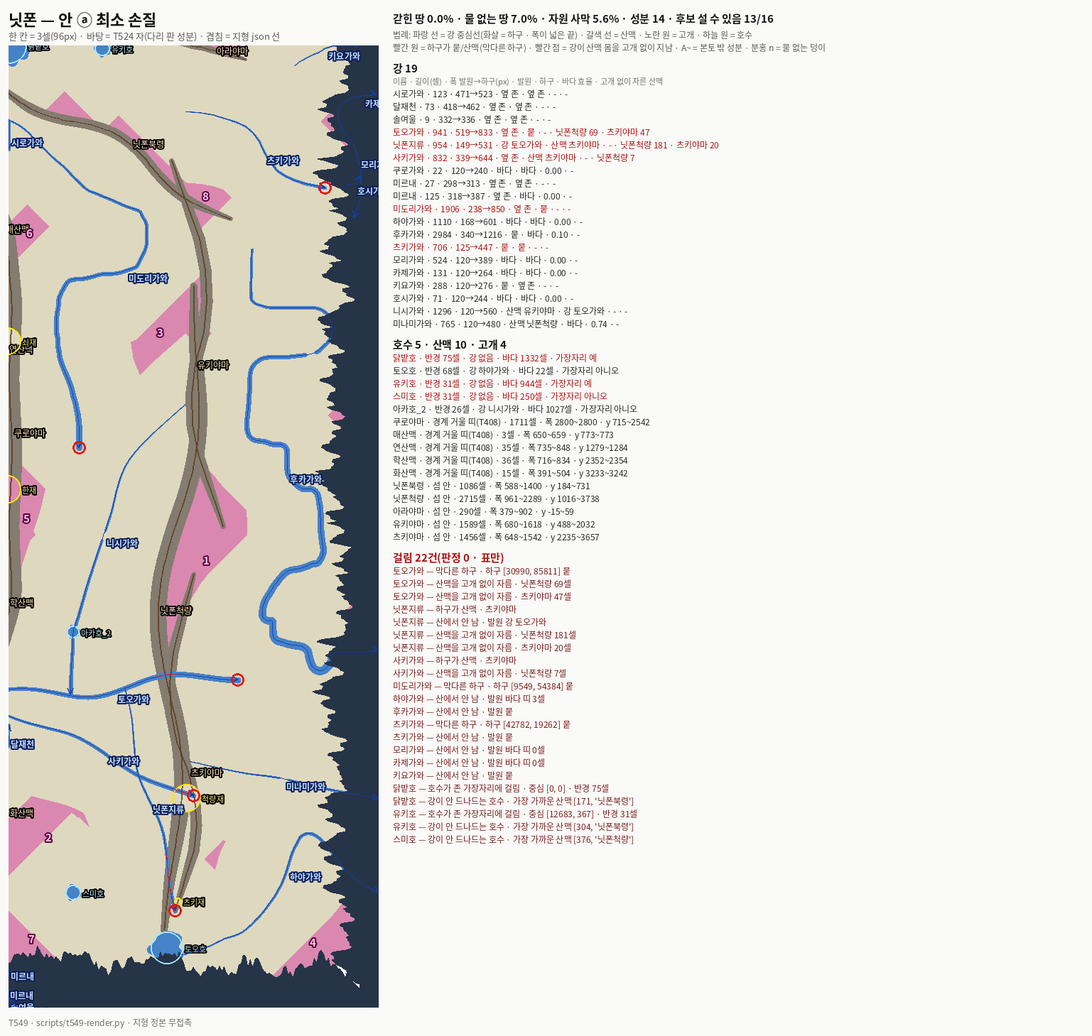
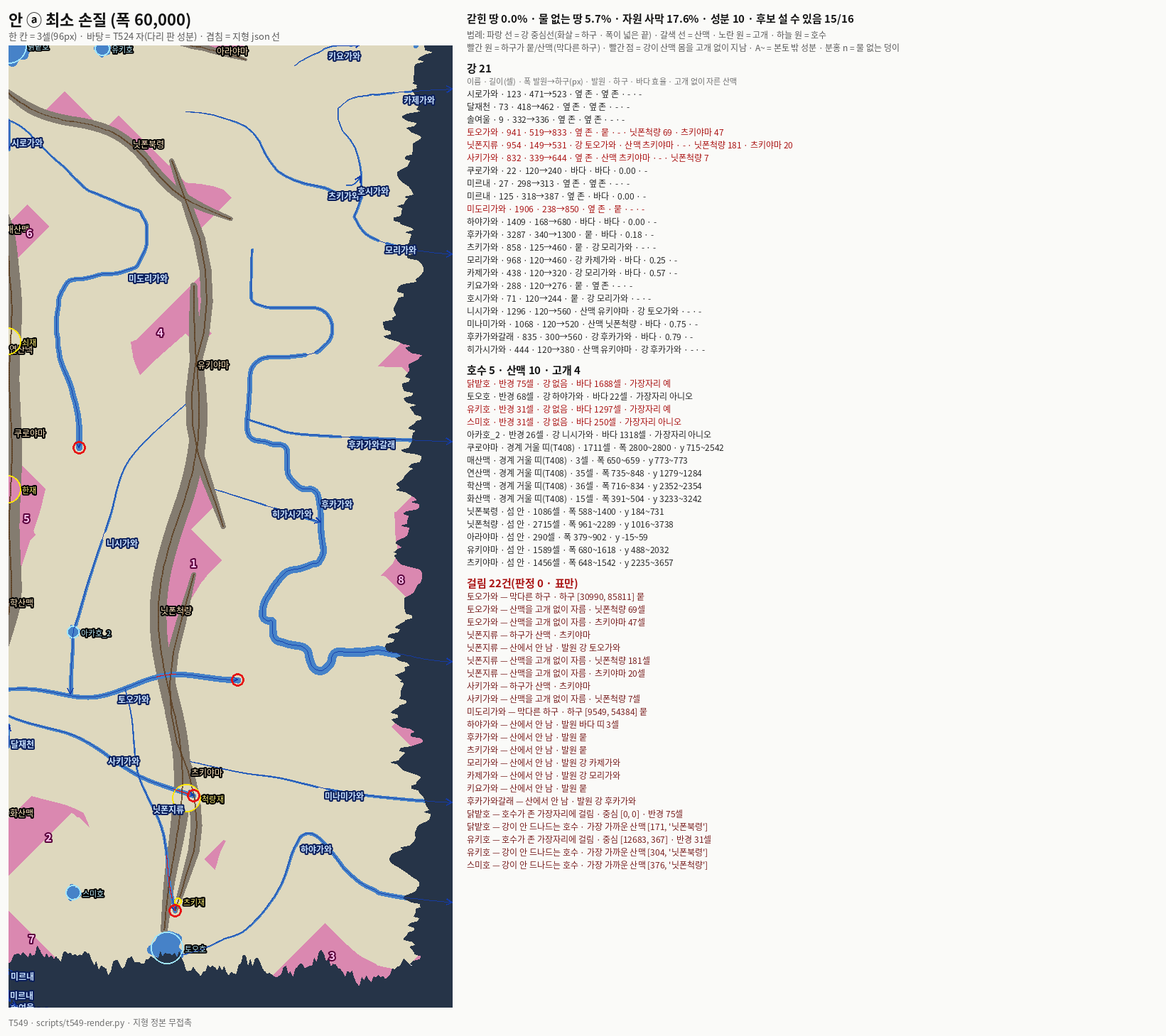
[승인 대기 · T549] 추신 — ⓪-a 닛폰 폭 60,000(한반도 3시드 JSON 동일 · 접합 닛폰 동만) · 새 폭 지금 갇힌 0.38 · 물 없는 19.1 · 자원 사막 20.6% · 안 ⓐ 0/5.7/17.6 · 안 ⓑ 0/2.3/6.9 · 띠 ×0.307 = 4.43% · ⓪-c 뾰족함 = 320px 톱니(149 → 옥타브 ×0.33 이면 6) · D 1.06 · 그림 넷
Claude-Session: https://claude.ai/code/session_01NfZmgq55FE8fR2rMAvfSin

diff --git a/scripts/t549-make-plans.py b/scripts/t549-make-plans.py
@@ -134,7 +134,7 @@ def plan_A():
     R = lambda nm: byname(T['rivers'], nm)
     ext = [('하야가와', [[53500, 115200], [EAST, 115900]], 680), ('후카가와', [[53000, 82300], [56500, 83000], [EAST, 83400]], 1300),
            ('카제가와', [[53000, 6300], [EAST, 5900]], 320), ('모리가와', [[48600, 25700], [53500, 27400], [EAST, 28300]], 460),
-           ('츠키가와', [[44600, 20000], [46300, 20400]], 460)]
+           ('츠키가와', [[44600, 20000], [x_on(R('모리가와'), 20600) or 46900, 20600]], 460)]
     for nm, c, w in ext:
         notes.append(f'{nm} 하구 이음 +{extend_mouth(R(nm), c, w)}점 → {c[-1]}')
     notes.append('츠키가와 는 새 해안 대신 모리가와 에 든다(곧장 동쪽이면 모리가와를 가로지른다)')

diff --git a/보고/T549_2026-09-30.md b/보고/T549_2026-09-30.md
@@ -1,4 +1,14 @@
-# T549 — 닛폰: 가로막는 지형(강 · 호수 · 산맥 · 고개)부터 — 안 둘 + 그림 (세션5 · 2026-09-30 · **가지만** · 표만 · 판정 0 · 지형 정본 무접촉)
+# T549 — 닛폰: 가로막는 지형(강 · 호수 · 산맥 · 고개)부터 — 안 둘 + 그림 + 추신 ⓪-a 폭 · ⓪-c 해안 (세션5 · 2026-09-30 · **가지만** · 판정 0)
+
+**한 줄 답(추신 · 폭 60,000):** 닛폰 폭 5000 → 6000(1,875셀) 정본 변경 — 한반도 3시드 800일 JSON **동일** · 접합(T408) 무변(닛폰 동쪽만 바뀜) · boot 42/0 · lint 61/0. 새 폭 **지금** = 갇힌 **0.38%**(옛 A · B 가 풀렸다) · 물 없는 **19.1%** · 자원 사막 **20.6%**(동쪽 새 땅 = 빈 뭍) · 걸림 30. **안 ⓐ** 0.00 · 5.7 · 17.6% · 걸림 22 · **안 ⓑ** 0.00 · 2.3 · 6.9% · 걸림 3. 띠 = 존 칸 14.1% → 한반도와 같은 4.43% 는 × **0.307**. 해안 뾰족함 = 1셀 돌기가 아니라 **320px 옥타브의 톱니**(줄 사이 ≥5셀 점프 149곳 → 옥타브 × 0.33 이면 6곳 · 열림/닫힘 1~2셀은 그대로) · D 1.06(실제 해안 1.2~1.3 보다 **매끈**).
+
+가지 `batch/nippon-terrain-plan-0930` = `@@HEAD@@`(본 커밋 · 이 보고 머리를 채운 커밋이 가지 끝) · 커밋 태그 `[승인 대기 · T549]` · 베이스 `f6b576c9`(main · 추신 판 `d0f8ac5b` 포함) · 첫 판 `b8260417`(베이스 `c0e9e864`)
+
+- **⓪-a 유일한 정본 변경**: `server/zone-config.js` 네 곳(nippon · japan_pacific 폭 6000 · nambingyang 22000 → 23000 · pacific offsetX 53000 → 54000 · 폭 8000 → 7000 · 바다 셋 `mainSquare` 는 가운데로) · `scripts/build-terrain{,-v2,-v3}.js` · `design-region.js` · `export-for-editor.js` · `bench-2zone.sh` 존 표 · 번들 `sim/economy-engine.browser.js` · 랩 둘은 **재생성**(손 안 댐 · `lab-wiring-check` F · G ✅) · `test-nippon-boot` 기대값을 폭에 매닮(아래 §0-a ⚠). **도쿄(닛폰) 존 재배포는 재민 손.**
+- 그림 넷: `산그림/T549_닛폰_지금.png` · `_A.png` · `_B.png`(새 폭으로 갈음) · `T549_닛폰_해안.png`(새) — 레포 `문서/` 같은 것. 안 json 둘 `~/Mini/_terrain/nippon_A.json` · `nippon_B.json`(새 폭 판으로 갈음).
+- 새 자(러너 밖): `scripts/t549-coast-band.js`(띠 마스크 · 정본 식 대조 후 변형) · `t549-coast-shape.py`(모양 표) · `t549-coast-fig.py`(그림).
+
+### 첫 판 한 줄 답(옛 폭 49,984 · 기록 — 수는 §0′ · §1 · §2 · §4 아래 표)
 
 **한 줄 답:**
 
@@ -17,7 +27,6 @@
   - 결과: 갇힌 **0.02%** · 물 없는 **2.0%** · 자원 사막 **0.2%** · 걸림 **3**(셋 다 경계 접합이라 둔 것) · 다리 없이 못 가는 후보 쌍 **0**(지금 47/78) · 시딩 6.
 - 그림 셋: `산그림/T549_닛폰_지금.png` · `_A.png` · `_B.png`(= 레포 `문서/`). 안 json 둘: `~/Mini/_terrain/nippon_A.json` · `nippon_B.json`. **고르는 것은 재민**이다 → 고른 안을 정본에 넣는 것은 T550.
 
-가지 `batch/nippon-terrain-plan-0930` = `b8260417`(본 커밋 · 이 보고 머리를 채운 커밋이 가지 끝) · 커밋 태그 `[승인 대기 · T549]` · 베이스 `c0e9e864`(main)
 만진 것: 새 자 다섯(러너 밖 · 제품 무변)
 - `scripts/t549-plan.js` — 예비 적재 · 안 json을 `require` 캐시의 그 존 칸에만 얹음 · 존별 띠 깊이 흉내
 - `scripts/t549-make-plans.py` — 안 둘 짜는 기계
@@ -28,7 +37,82 @@
 그 밖: 그림 셋 `문서/T549_닛폰_*.png` · 이 보고 · `인계/R1-지형렌더.md`. T524 자 `t524-land-audit.js`는 **무변**이다 — 안 json은 예비 적재가 얹는다.
 — **지형 정본(`hanbando-terrain.json` · `zone-config.js` · 서버) 무접촉** · 새 수 0 · 새 문턱 0(자 = 한반도 p95 · 각 피처 제 폭 · `COASTLINE_BASE`) · **T545 · T533 · T537 무접촉** · 재민이 채팅에 남긴 의도 한 줄은 없었다 → 카드 규칙대로 그었다.
 
-## §0 ⓪ 해안선 띠 — 존별 깊이를 넣으면
+## §0-a ⓪-a 폭 5000 → 6000 (추신 · 유일한 정본 변경)
+
+| 칸 | 옛 | 새 | 월드 px |
+|---|---|---|---|
+| nippon | offsetX 48000 · 폭 5000 | 폭 **6000** | 480,000 ~ **540,000**(1,875셀 · 60,000 = 32 의 배수) |
+| japan_pacific | 폭 5000 | 폭 6000 | 480,000 ~ 540,000 |
+| nambingyang | 폭 22000 | 폭 23000 | 309,984 ~ 540,000 |
+| pacific | offsetX 53000 · 폭 8000 | offsetX **54000** · 폭 **7000** | **540,000** ~ 609,984 |
+| 바다 셋 `mainSquare`(이름이 "…중심") | 2500 · 11000 · 4000 | 3000 · 11500 · 3500 | 가운데 유지(닛폰 광장 2500 은 그대로 — 지형 좌표) |
+
+- 26존 타일링: 겹침 0 · 덮음 100% · 월드 상자 [0, 0, 609,984, 380,000] 그대로 · 닛폰 이웃 = bering · hanbando · japan_pacific · pacific 그대로(작은 자로 옛/새 둘 다 잰 답).
+- grep 전수(49984 · 480000 · 529984 · 53000 · 1562): 존 표 사본은 `build-terrain.js` · `-v2` · `-v3` · `design-region.js`(WX1 529,984 → 540,000) · `export-for-editor.js` · `bench-2zone.sh` 주석을 고쳤다. `sim/economy-engine.browser.js` · `lab/마을실험실.html` · `lab/전쟁실험실.html` 의 ZONES_BASE 는 **zone-config 의 번들 사본**이라 `node sim/build-econ-bundle.js` · `node sim/inline-engine.js` 로 다시 뽑았다(diff = zone-config 와 같은 줄만). 남긴 것: `BENCHMARK.md`(그때 잰 기록) · `t408-seam-audit.js` · `plan-bridges-v2.js` · `zone-config.js` 의 "1562셀 · 16.0%" 주석(T348 · T408 때의 실측 서술) · 맵 에디터(`lab/map-editor.html` — T553 가지 · main 에 들어가면 같이 고친다).
+- 닛폰 지형 좌표(존 local px)는 **그대로** — 동쪽으로 뭍이 10,016 px(313셀) 늘 뿐이다. 해안선 띠도 동쪽으로 물러난다.
+
+| 게이트 | 결과 |
+|---|---|
+| 한반도 3시드(1020 · 7 · 42) 800일 `t17-metrics` JSON | **셋 다 바이트 동일**(전 = 워크트리 옛 판 · 후 = 새 판 · `cmp`) |
+| 접합 T408(`t408-seam-audit.js --json`) | 바뀐 줄 = **닛폰 동(pacific) 하나뿐** — 하야가와 · 후카가와가 더는 동쪽 경계를 넘지 않는다(옛 해안에 하구가 박혀 있었다). 한반도 · bering · pacific_arctic · 닛폰 서 · 북 줄 무변 |
+| `test-nippon-boot` | **42/0** — ⚠ 폭만 바꾸면 **40/2**(ⓘ2 시딩 7 · ⓘ3 교역 21쌍이 T348 값에 박혀 있다). 띠가 물러나 물 위 후보였던 **이즈사키** 자리가 뭍이 되어 시딩 8 · 교역 28쌍(8C2 · 전부 닿음 = ⓙ 0쌍 불능). 옮겨 적기가 아니라 세계를 바꾼 것이라 기대값을 **폭에 매달았다**(폭 60,000 이면 8 · 28 · 아니면 7 · 21 — 되돌리면 옛 값을 잰다). 받지 않으면 이 한 곳만 되돌리면 된다 |
+| `test-harness-lint` | **61/0** |
+| `lab-wiring-check` [F][G] | 번들 = 소스 · 랩 인라인 = 번들 ✅ |
+| 도쿄 존 재배포 | **재민 손**(닛폰 · 남창해 · 남얼음바다 · 큰바다 존이 새 zone-config 를 읽어야 한다. 서울 한반도는 세계가 3시드 동일이나 zone-config 를 같이 읽으니 같은 판으로 맞추는 게 안전하다) |
+
+**새 폭 "지금"**(`문서/T549_닛폰_지금.png` 갈음):
+
+| | 옛 폭 49,984 | **새 폭 60,000** |
+|---|---:|---:|
+| 뭍 셀 | 4,762,478 | 5,953,853(+25%) |
+| 띠 %(존 칸) | 16.01 | 14.10 |
+| **갇힌 %** | 9.75(A 261k · B 180k · C 14.7k · D 7.6k) | **0.38**(C 14,746 · D 7,588 — **A · B 풀림**) |
+| 물 없는 % | 17.01 | **19.11** |
+| 자원 사막 % | 9.31 | **20.56** |
+| 성분(다리 · 다리 없음) | 18 · 22 | 10 · 14 |
+| 다리 없이 못 가는 후보 쌍 | 47/78 | 63/105 |
+| 후보 설 수 있음 · 시딩 | 13 · 7 | 15 · **8**(+이즈사키) |
+| 걸음 중앙값 민물 · 숲 · 광맥 · 산 | 146 · 578 · 235 · 206 | 153 · 736 · 352 · 299 |
+| 걸림 | 28 | 30 |
+
+- A · B 가 풀린 까닭: 후카가와 · 하야가와가 옛 해안(띠 안)을 따라 흐르다 옛 동쪽 끝에서 바다로 들었는데, 새 폭에서는 그 하구가 **뭍 한가운데서 끝난다**(막다른 하구 +4 — 하야가와 · 후카가와 · 모리가와 · 카제가와) — 강 끝을 돌아 걸어 나간다.
+- 대신 옛 띠 자리 + 새 10,016 px 가 **강 · 숲 · 광맥 · 산 없는 빈 뭍**이다 → 물 없는 · 자원 사막이 는다(카드가 예상한 대로 · 표만). 물 없는 덩이 3(동해안 북 · 43~56k × 40~67k) · 2(남동 24~57k × 90~112k) · 9(북동)가 새로 크다.
+
+## §0-b ⓪-b 띠 깊이 표(새 폭)
+
+| 띠 깊이 × k | 띠 % | 뭍 셀 | **갇힌 %** | 물 없는 % | 자원 사막 % | 성분(다리 · 없음) | 못 가는 쌍 | 설 수 있음 · 시딩 |
+|---:|---:|---:|---:|---:|---:|---|---:|---|
+| 1(지금) | 14.10 | 5,953,853 | **0.38** | 19.11 | 20.56 | 10 · 14 | 63/105 | 15 · 8 |
+| 0.5 | 7.16 | 6,478,452 | 0.34 | 21.85 | 24.29 | 5 · 8 | 56/105 | 15 · 8 |
+| **0.307**(= 한반도 4.43%) | **4.42** | 6,687,037 | 0.33 | 23.42 | 25.97 | 6 · 9 | 56/105 | 15 · 8 |
+
+- 옛 폭에서 띠는 A · B 를 푸는 손잡이였다(9.75 → 0.8%). 새 폭에서는 폭이 이미 그 일을 했다 — 띠를 얕게 해도 갇힌 %는 거의 그대로(남은 C · D 는 산맥과 강 사이 골 · 띠 무관)이고, **새로 드러나는 뭍만큼 빈 땅이 는다**.
+- 같은 % 가 되는 깊이: 폭 1,562셀일 때 × 0.275 → 1,875셀일 때 × **0.307**(`t549-coast-band.js --k` 로 찾음 · 0.305 = 4.396% · 0.310 = 4.467%).
+
+## §0-c ⓪-c 해안선 뾰족함(자로만 · 띠 함수 무변)
+
+지금 띠: **직사각 바다 경계에서의 거리 < 깊이**, 깊이 = 6000 + 5000 × fBm(3200 / 960 / 320 px · 가중 0.50 / 0.32 / 0.18 · 값 노이즈 + smoothstep) — "가장 가까운 바다 경계점"에서 샘플하니 동해안은 **y 하나의 함수**다. 고증 함수(파식 · 퇴적 · 하구)가 아니다. 자는 `t549-coast-band.js`(정본 식을 옮겨 **변형 0 판이 정본 `generateCoastlineWaterTiles` 와 셀 하나까지 같음**을 확인한 뒤 손잡이) + `t549-coast-shape.py`. 그림 `산그림/T549_닛폰_해안.png`(동해안 y 1,500~1,800셀 창 다섯 칸).
+
+| 판 | 띠 % | 해안 셀 | 1셀 돌기(곶 + 만) | /1,000 해안 | **D**(잔 2~16 · 큰 16~128셀) | 동해안 줄 점프 p95 · **≥5셀 곳** · 최대 | 곶 r 1/2/3/5/8/13/21/34 | 만 r 같은 |
+|---|---:|---:|---:|---:|---|---|---|---|
+| **지금** | 14.10 | 9,184 | 30+22 | 5.66 | **1.059**(0.968 · 1.138) | 4 · **149** · 58 | 31/29/39/**74/89/97**/88/75 | 38/25/43/82/92/89/86/72 |
+| 한반도(참고 · 남해안) | 4.43 | 3,834 | 13+11 | 6.26 | 1.116(0.986 · 1.222) | — | 25/22/33/53/60/59/44/30 | 27/24/34/56/62/58/50/30 |
+| 잔 옥타브(320px) × 0.5 | 14.10 | 7,459 | 14+11 | 3.35 | 1.033 | 3 · 16 · 53 | 13/2/11/44/58/64/65/63 | 16/1/10/44/66/62/61/56 |
+| **잔 옥타브 × 0.33** | 14.10 | 7,052 | 3+8 | 1.56 | 1.017 | 3 · **6** · 52 | 16/0/1/**15/38/46**/52/54 | 20/1/1/14/45/49/45/50 |
+| 잔 옥타브 × 0 | 14.10 | 6,711 | 0+4 | 0.60 | 1.006 | 2 · 3 · 50 | 5/0/0/1/16/21/28/42 | 3/1/0/2/15/26/33/43 |
+| 잔 × 0.33 · 중간(960px) × 0.6 | 14.07 | 6,365 | 9+6 | 2.36 | 1.007 | 2 · 5 · 53 | 17/1/0/10/27/32/44/45 | 12/0/1/11/38/30/37/42 |
+| 열림 + 닫힘 1셀 | 14.10 | 9,144 | 0+0 | 0.00 | 1.055 | 4 · **149** · 58 | 0/29/39/74/88/94/84/77 | 0/24/42/80/90/88/84/70 |
+| 열림 + 닫힘 2셀 | 14.10 | 8,954 | 0+0 | 0.00 | 1.050 | 4 · **149** · 58 | 0/0/39/74/88/91/79/77 | 0/0/42/80/91/87/84/70 |
+| 띠 × 0.307(참고) | 4.42 | 6,017 | 13+4 | 2.83 | 1.045 | 1 · 4 · 259 | 16/1/0/8/30/27/36/32 | 11/0/0/5/36/26/26/34 |
+
+읽는 법(판정 0):
+
+- **"뾰족함"은 1셀 돌기가 아니다.** 1셀 돌기는 해안 1,000셀당 5.7개(한반도 6.3)뿐이고, 형태학 열림/닫힘 1~2셀은 그것을 0 으로 지우지만 **나머지 수(D · 줄 점프 · 반경 3셀 이상 곶/만)는 그대로**다 — 그림에서도 안 달라진다.
+- 뾰족함의 정체는 **반경 5~13셀(160~420px) 곶 · 만**이 촘촘한 것 + 동해안 한 줄 사이에 해안이 5셀 넘게 뛰는 **톱니 149곳**이다. 이것이 320px 옥타브(±900px 를 10셀 안에서 흔든다)의 몫이다: 그 옥타브를 × 0.33 으로 줄이면 톱니 149 → **6** · 반경 5/8/13 곶 74/89/97 → **15/38/46**.
+- **D 는 오히려 낮다**(1.06 · 실제 해안 1.2~1.3). 큰 척도에 굴곡이 없어서다 — 경계가 직사각이고 가장 큰 옥타브가 3,200px(100셀)다. 잔 옥타브를 줄이면 D 는 1.02 로 더 내려간다. **"덜 뾰족하게"와 "더 해안답게"는 같은 손잡이가 아니다** — 실제 해안 같은 D 는 큰 옥타브(수만 px)를 더하고 옥타브마다 진폭을 일정 비율로 줄이는 fBm(스펙트럼 기울기 ↔ D)에서 나온다.
+- 완만 안은 자로만 쟀다. 띠 함수를 바꾸는 것은 **전 존 공통**(다른 존 바이트 동일 게이트가 먼저 있어야 한다) → §6 회부.
+
+## §0′ (첫 판 · 옛 폭 49,984 기록) ⓪ 해안선 띠 — 존별 깊이를 넣으면
 
 지금 띠는 전 존 공통 상수다(`chunk.js COASTLINE_BASE 6000 ± NOISE 5000 px` = 깊이 31~344셀). 폭 1,562셀인 닛폰에서는 존 칸의 **16.0%**를 먹는다(한반도 4.4%). 존별 깊이(`zone-config` 칸 하나 · 기본 × 1 = 지금 상수 = 다른 존 바이트 동일)를 넣었을 때를 자 안에서만 흉내 냈다 — `T549_BAND=k`, `generateCoastlineWaterTiles` 의 depth 한 줄 × k(닛폰만).
 
@@ -42,7 +126,7 @@
 - 물 없는 땅은 띠와 무관하다(서해안 평원에 강이 없다). 자원 사막은 **오히려 는다** — 새로 뭍이 된 해안 띠와 본토에 붙은 A · B에는 숲 · 광맥 · 산이 없다(자원 심기 = 다음 카드).
 - 띠 × 0.275를 ⓐ · ⓑ와 겹친 판은 §4 표 끝 두 줄이다.
 
-## §1 ① 지금 — 전수 표 + 그림
+## §1 ① 지금 — 전수 표 + 그림 (옛 폭 49,984 기록 — 새 폭 지금은 §0-a 표 · 그림은 새 폭으로 갈음)
 
 그림 **`산그림/T549_닛폰_지금.png`**(1,537×1,459 · 한 칸 = 3셀):
 
@@ -101,7 +185,7 @@
 - **고개 2**(쇠재 · 한재)는 둘 다 **서쪽 경계**(쿠로야마 거울 띠)에 있다. 섬 안 등뼈에는 고개가 **0**이다.
 - 섬 안 산맥 다섯이 북 → 남 모든 가로줄을 덮는다(등뼈 덮음 100%). 그래도 등뼈 동서는 **강 셋이 가른 물길**(토오가와 · 닛폰지류 · 사키가와)을 **다리로만** 넘는다. 다리 없는 판에서 본토가 2,059,026 / 1,529,179 / 558,101 셋으로 갈리는 까닭이다(T524).
 
-## §2 ② 자연스러움 — 걸림 28건(지금 · 판정 0)
+## §2 ② 자연스러움 — 걸림 28건(지금 · 판정 0 · 옛 폭 기록 — 새 폭은 30건: 막다른 하구에 하야가와 · 후카가와 · 모리가와 · 카제가와가 들고 "A · B 를 가른다" 둘이 빠짐)
 
 | 검사 | 자 | 걸림 |
 |---|---|---:|
@@ -184,7 +268,36 @@
 - 카드는 "큰 강 3~4"라고 했다. 동쪽에 등뼈 → 바다 강 **넷**(서쪽 지류 둘)만 그은 첫 판은 물 없는 땅이 **24.7%**였다(동쪽 강 사이가 25km). 그래서 짧은 강을 늘렸다(물 없는 땅 6.4% → 북 · 남동 둘을 더해 2.0%). 열도 태평양 쪽에 짧고 가파른 강이 많은 모양과 같은 방향이다.
 - 살린 것(표시): 경계 접합 12(위 줄) · 이름을 이어 쓴 것 — 토오가와 · 사키가와(경계 끝 그대로) · 후카가와 · 하야가와 · 츠키가와 · 모리가와 · 카제가와 · 호시가와 · 미나미가와 · 니시가와(**자리는 새로**) · 호수 토오호 · 아카호 · 스미호 · 유키호(유키호는 자리를 옮김).
 
+### 새 폭(60,000)에서 안을 고친 것 — `t549-make-plans.py` 가 동해안 x 를 zone-config 에서 읽는다(`EAST = 폭 − 50`)
+
+- **ⓐ**: 옛 해안(49,984)에 하구가 박힌 강 다섯의 **하구만 새 해안까지 잇는다** — 하야가와 → (59950, 115900) · 후카가와 → (59950, 83400) · 카제가와 → (59950, 5900) · 모리가와 → (59950, 28300) · 츠키가와 → 모리가와에 합류(곧장 동쪽이면 모리가와를 가로지른다). 이은 모리가와 · 카제가와에 여울 하나씩(둘이 동쪽 모서리 뭍을 가두지 않게). 미나미가와 하구 → 새 해안. 새로 생긴 동쪽 빈 뭍에 **후카가와갈래**(후카가와 → 동해 · 여울 1) · 등뼈와 후카가와 사이에 **히가시가와**(등뼈 동쪽 몸 → 후카가와 · 여울 1). 나머지(여울 둘 · 고개 둘 · 니시가와)는 첫 판 그대로.
+- **ⓑ**: 동쪽 강 아홉 · 우미가와의 하구를 새 해안으로(x 49,950 → 59,950 · 하구 폭 500 → 560 · 우미가와 끝 44,500 → 48,000). 등뼈 자리는 그대로라 동쪽 사면이 서쪽보다 1.4배 길다(강 길이 ~1,000셀).
+- 옛 json 을 **그대로** 새 폭에 얹은 수도 한 줄씩 적는다(아래 표 "옛 json").
+
 ## §4 ④ 두 안 비교
+
+**새 폭 60,000**(추신 · 같은 자 · 다리 = 지금 zone-config 다리 그대로 · 숲 · 광맥 · 후보 자리 무변):
+
+| | 지금 | 안 ⓐ 옛 json | **안 ⓐ** | 안 ⓑ 옛 json | **안 ⓑ** |
+|---|---:|---:|---:|---:|---:|
+| 강 · 호수 · 산맥 · 고개 · 계곡 | 17 · 5 · 10 · 2 · 0 | 19 · 5 · 10 · 4 · 0 | 21 · 5 · 10 · 4 · 0 | 29 · 5 · 8 · 7 · 3 | 29 · 5 · 8 · 7 · 3 |
+| **갇힌 %** | 0.38 | 0.00 | **0.00** | 0.00 | **0.00** |
+| **물 없는 %** | 19.11 | 9.23 | **5.70** | 2.61 | **2.28** |
+| **자원 사막 %** | 20.56 | 16.61 | **17.64** | 7.05 | **6.86** |
+| 성분(다리 · 다리 없음) | 10 · 14 | 8 · 12 | 10 · 14 | 7 · 7 | 7 · 7 |
+| 다리 없이 못 가는 후보 쌍 | 63/105 | 63/105 | 63/105 | **0/120** | **0/120** |
+| 걸음 중앙값 민물 · 숲 · 광맥 · 산 | 153 · 736 · 352 · 299 | 127 · 798 · 359 · 303 | 113 · 819 · 357 · 302 | 100 · 720 · 321 · 286 | **97** · 787 · 320 · 285 |
+| 후보 설 수 있음 · 시딩 | 15 · 8 | 15 · 9 | 15 · 9(+타카노) | 16 · 6 | 16 · 6 |
+| 걸림 | 30 | 27 | 22 | 12 | **3** |
+| + 띠 × 0.307 — 갇힌 · 물 없는 · 자원 사막 % | 0.33 · 23.42 · 25.97 | — | 0.00 · 6.96 · 23.73 | — | 0.00 · 2.21 · 13.89 |
+| + 띠 × 0.307 — 성분 · 못 가는 쌍 · 시딩 | 6 · 56/105 · 8 | — | 5 · 56/105 · 9 | — | 3 · **0/120** · 6 |
+
+- 새 폭에서 **갇힌 땅은 어느 안이든 0** 이다(폭이 A · B 를 풀었고 두 안 다 C · D 에 고개를 둔다).
+- **자원 사막**은 ⓐ 에서 17.6% 로 남는다 — 동쪽 새 땅에 강은 그었지만 숲 · 광맥 · 산은 없다(자원 심기 = 다음 카드). ⓑ 는 등뼈가 이어져 산이 가까워 6.9%.
+- 옛 json 을 그대로 얹으면 ⓑ 의 걸림이 12 — 동쪽 강 아홉 하구가 옛 해안에서 막힌다. 하구만 새 해안으로 옮긴 ⓑ 는 3(경계 접합이라 둔 것).
+
+**첫 판(옛 폭 49,984 · 기록)**:
+
 
 같은 자(T524 `t524-land-audit.js` · 다리 = 지금 `zone-config` 다리 208셀 그대로 · 숲 · 광맥 · 후보 자리 무변):
 
@@ -217,15 +330,21 @@
 |---|---|
 | `test-nippon-boot` | **42/0** |
 | `test-harness-lint` | **61/0** |
-| 지형 정본 · `zone-config` · 서버 | 무접촉(`git diff --stat` = 새 자 다섯 · 그림 셋 · 보고 · 인계) |
-| T524 자 | 무변(예비 적재로 얹음) · 지금 판 수 = T524 보고 수(9.75 · 17.01 · 9.31) 그대로 |
-| T545 · T533 · T537 | 무접촉 |
+| 지형 정본 `hanbando-terrain.json` · 서버 코드 | 무접촉 |
+| `zone-config.js` | **추신 ⓪-a 네 곳만**(카드가 허락한 유일한 정본 변경) — 게이트는 §0-a 표(한반도 3시드 JSON 동일 · 접합 · boot · lint · 번들/랩) |
+| 첫 판 | 무접촉(`git diff --stat` = 새 자 다섯 · 그림 셋 · 보고 · 인계) |
+| T524 자 | 무변(예비 적재로 얹음) · 옛 폭 지금 판 수 = T524 보고 수(9.75 · 17.01 · 9.31) 그대로 · 새 폭 판은 §0-a |
+| T545 · T533 · T537 · T553(맵 에디터 · 다른 가지) | 무접촉 |
 
 ## §6 회부
 
 1. **[재민] 안 고르기** — 그림 셋을 보고 ⓐ / ⓑ / 섞기(예: ⓑ 등뼈 + ⓐ의 강). 고른 안을 정본에 넣는 것은 **T550**(다리 · 고개 · 자리 · 시딩 3시드).
-2. **[재민 · PM] 해안 띠 존별 깊이** — `zone-config` 칸 하나(기본 × 1 = 다른 존 바이트 동일). 닛폰 × 0.275면 띠가 한반도와 같은 %가 되고, 갇힌 땅의 뿌리(띠 + 해안 강)가 지형 손질 없이 풀린다. 넣으면 뭍이 +15%(4.76M → 5.47M셀)라 세계가 바뀐다 → 기준선 칸.
+2. **[재민 · PM] 해안 띠 존별 깊이**(첫 판 회부 · **새 폭에선 필요가 줄었다** — §0-b: 폭이 A · B 를 이미 풀어 띠를 얕게 해도 갇힌 %는 그대로이고 빈 뭍만 는다) — `zone-config` 칸 하나(기본 × 1 = 다른 존 바이트 동일). 닛폰 × 0.275면 띠가 한반도와 같은 %가 되고, 갇힌 땅의 뿌리(띠 + 해안 강)가 지형 손질 없이 풀린다. 넣으면 뭍이 +15%(4.76M → 5.47M셀)라 세계가 바뀐다 → 기준선 칸.
 3. **[다음 카드] 숲 · 광맥 심기**(자원 사막 · T551 고증 뒤) — ⓑ에서도 숲 · 광맥 걸음 중앙값이 한반도보다 길다.
 4. **[다음 카드] 마을 후보 자리 · 수** — 한반도 51 / 7.55M셀 비례면 닛폰 ~32. ⓑ는 강가 후보를 새 강 곁으로 옮겨야 한다.
 5. **[다음 카드] 다리 계획기 v2 재실행** — 두 안 다 지금 다리 208셀을 그대로 쟀다(ⓑ에선 대부분 헛다리). 여울을 다리로 바꿀지도 그때.
 6. **[표만] 경계 접합 강** — 한반도 닛폰대천 · 아카가와 · 복사꽃천이 닛폰으로 흘러 든다. 어느 안이든 닛폰이 그 물을 바다까지 받아야 한다(ⓐ는 지금처럼 못 받는다 · ⓑ는 오오카와가 받는다). 한반도 쪽 선은 무접촉이다.
+7. **[재민 · PM] 해안선 함수 고증판**(⓪-c · 전 존 공통이라 다른 존 바이트 동일 게이트가 먼저) — ⓐ 톱니만: 320px 옥타브 진폭 × 0.33(톱니 149 → 6 · D 1.06 → 1.02) ⓑ 해안답게: 큰 옥타브(수만 px)를 더하고 옥타브마다 진폭 비율을 일정하게(fBm 스펙트럼 ↔ D 1.2~1.3) · 잔 옥타브는 낮게. 존별 손잡이(`zone-config` 칸)로 닛폰부터 켜는 길도 있다. 파식 · 퇴적 · 하구 삼각주 · 리아스 같은 지형학 모사는 그 뒤.
+8. **[재민] 도쿄(닛폰) 존 재배포** — ⓪-a 는 zone-config 를 바꾼다. 닛폰 · 남창해 · 남얼음바다 · 큰바다가 새 판을 읽어야 한다(서울 한반도는 세계 3시드 동일이나 같은 판으로 맞추는 게 안전).
+9. **[T553 과 짝]** 맵 에디터 존 표(`ZONES` · `WZONES`)는 손 사본 — 두 가지가 main 에 들어간 뒤 닛폰 60,000 · 큰바다 서쪽 끝 540,000 으로 같이 고친다.
+10. **[표만] `test-nippon-boot` 기대값** — 폭에 매단 한 곳(§0-a ⚠). 받지 않으면 그 줄만 되돌린다.

diff --git a/인계/R1-지형렌더.md b/인계/R1-지형렌더.md
@@ -11,6 +11,8 @@
 * 안 ⓐ(여울 4 · 고개 2 · 강 2): 갇힌 0.02 · 물 없는 7.0 · 자원 사막 5.6 · 걸림 22. 안 ⓑ(등뼈 하나 + 고개 5 · 서 평원 큰 강 오오카와 + 지류 7 · 동해 짧은 강 9 · 호수 셋 큰 강 위 · 계곡 3 · 여울 25): 갇힌 0.02 · 물 없는 2.0 · 자원 사막 0.2 · 걸림 3(경계 접합) · 다리 없이 못 가는 후보 쌍 0. 그림 `문서/T549_닛폰_A.png` · `_B.png` · 안 json `~/Mini/_terrain/nippon_A.json` · `_B.json`.
 * **여울** 문법 = 강 꼭짓점 몇 개 폭 0(`_ford`) — 선은 이어지고 걸어 건넌다(배 없음 · 다리는 다음 카드). ⚠산에 닿는 새 강은 평원을 가른다 — 강마다 여울 하나.
 * 자: `scripts/t549-plan.js`(안 json · 띠 깊이를 예비 적재로 얹음) · `t549-make-plans.py` · `t549-terrain-check.py`(하구 = 폭 넓은 끝 · 끝이 닿는 것 · 산맥 관통 · 갇힌 땅 둘레 민물의 주인) · `t549-summary.py` · `t549-render.py`. T524 자 무변. 전문 `보고/T549_2026-09-30.md`. 다음: 재민 고름 → T550 정본.
+* **추신(같은 날) ⓪-a 닛폰 폭 5000 → 6000(60,000 px · 1,875셀)** — 정본 `zone-config.js` 네 곳(nippon · japan_pacific 폭 6000 · nambingyang 23000 · pacific offsetX 54000 · 폭 7000). 번들 · 랩 ZONES_BASE 는 zone-config 사본이라 `build-econ-bundle.js` · `inline-engine.js` 로 **다시 뽑는다**(손으로 고치지 마라). 한반도 3시드 JSON 동일 · 접합은 닛폰 동 줄만 바뀜. `test-nippon-boot` ⓘ2 · ⓘ3 기대값은 **폭에 매달았다**(60,000 → 시딩 8 · 28쌍 — 띠가 물러나 이즈사키 자리가 뭍). 새 폭 지금: 갇힌 0.38 · 물 없는 19.1 · 자원 사막 20.6(동쪽 새 땅 = 빈 뭍) · 안 ⓐ 0 · 5.7 · 17.6 · 안 ⓑ 0 · 2.3 · 6.9. 띠 한반도 % = × 0.307. 도쿄 존 재배포 = 재민.
+* **추신 ⓪-c 해안 뾰족함** — 자 `t549-coast-band.js`(정본 띠 식 사본 · 변형 0 판이 정본과 셀 단위로 같아야 돈다) · `t549-coast-shape.py`(1셀 돌기 · 박스 D · 원판 입도 곶/만 · 줄 점프) · `t549-coast-fig.py`. 답: 뾰족함 = 320px 옥타브 톱니(줄 사이 ≥5셀 점프 149곳) · 1셀 돌기(5.7/1,000)도 형태학도 아니다 · D 1.06 은 실제(1.2~1.3)보다 **매끈** — 톱니 줄이기와 해안다움은 다른 손잡이. 띠 함수 변경은 전 존 게이트가 먼저(회부).
 
 ## T535. ★★2026-09-30 — 중원북 뭍 전수 · `audit-reachability` 바다 띠 ⓪ (표만 · 지형 무변)
 
